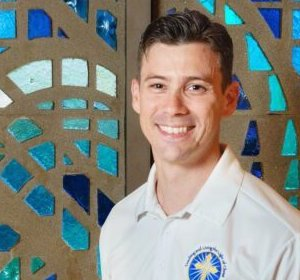
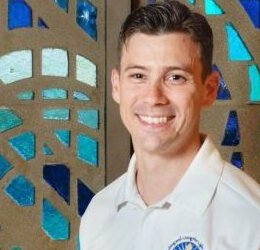
Bulman: slight zoom in on face

diff --git a/index.html b/index.html
@@ -414,7 +414,7 @@
 
             <!-- Row 4 -->
             <div class="endorser-card">
-                <img src="endorser-jason-bulman.jpg?v=6" alt="Deacon Jason Bulman" class="endorser-photo" style="object-position:center 20% !important" onerror="this.style.display='none';this.nextElementSibling.style.display='flex'" loading="lazy">
+                <img src="endorser-jason-bulman.jpg?v=7" alt="Deacon Jason Bulman" class="endorser-photo" style="object-position:center 20% !important" onerror="this.style.display='none';this.nextElementSibling.style.display='flex'" loading="lazy">
                 <div class="endorser-initial" style="display:none">JB</div>
                 <div class="endorser-body"><blockquote>"<em>Faith in Crisis</em> proves itself to be a collection of essays born from the minds and hearts of those who have their fingers on the pulse of the Church. More than sixty years since the Second Vatican Council, the Church in the West now finds herself simultaneously in need of deescalating the understandable anger of those who perceive a loss of the sense of the sacred, deepening and clarifying her teachings concerning Tradition and church authority, and undertaking a reform that is truly in conformity with the documents of the Council itself. These essays bespeak careful reflection and due diligence to nuance, in order to start a path toward unity and healing."</blockquote><cite>Deacon Jason Bulman, ThM, MPAS</cite><span class="cite-role">Deacon of the Diocese of Orlando</span></div>
             </div>
